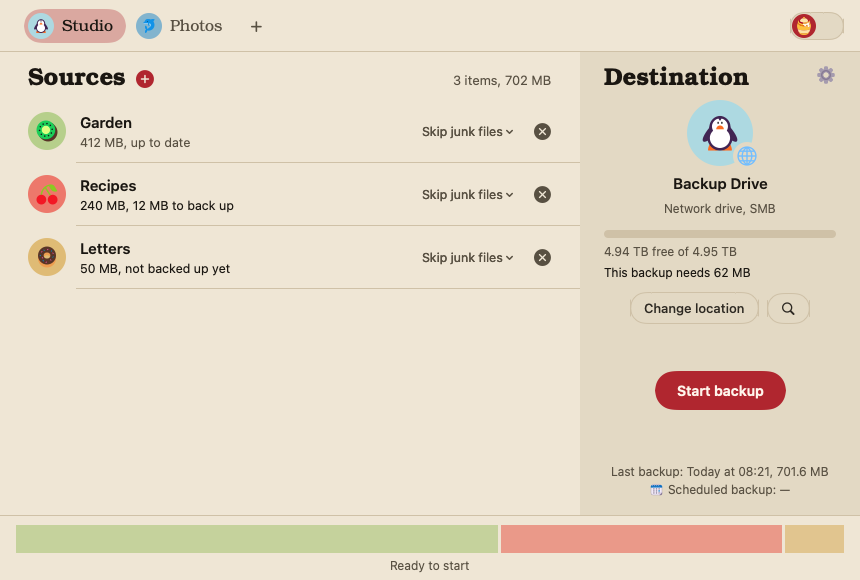
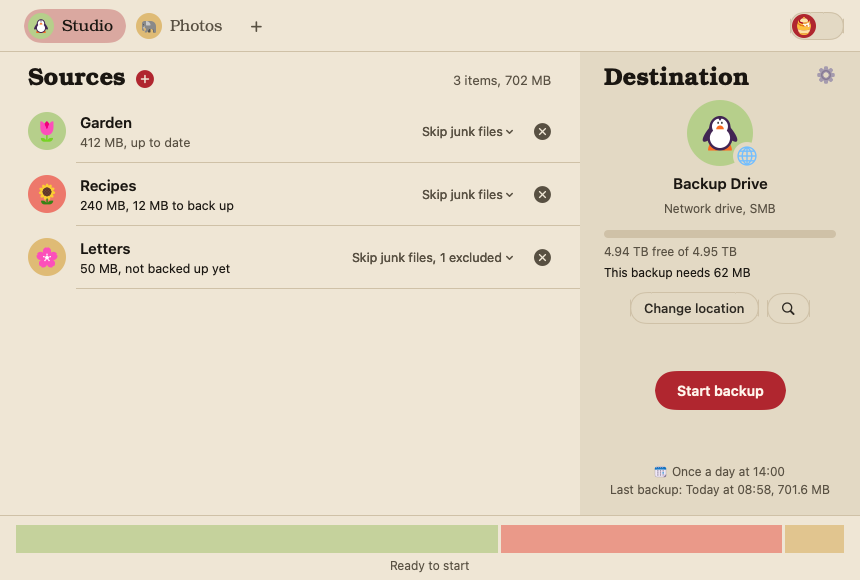
Archivist 0.0.5 — No more 'quit unexpectedly': scheduled backups now run while Archivist is open. Exclude a folder from a source. Steadier time left. Schedule shown on one line.

diff --git a/Archivist/Job.swift b/Archivist/Job.swift
@@ -340,7 +340,8 @@ final class Runner {
         stopping = false
         stopRequested = false
         progress = .init()
-        samples = []
+        fit = TimeFit()
+        lastStep = nil
         eta = nil
         etaAnchor = nil
         started = Date()
@@ -451,10 +452,14 @@ final class Runner {
     }
     @ObservationIgnored private var stopRequested = false
 
-    // Time left. Small files cost time per file, big files per byte, and the two lanes mix
-    // them; so both rates are measured over the last 30 s and the slower finish wins.
+    // Time left. Every file costs a fixed overhead (create, rename, a head move on a spinning
+    // disk) plus its bytes: seconds ≈ a·files + b·bytes. a and b are fitted over the whole run,
+    // each step weighted by how recent it is (half-life 5 min), so a patch of tiny or huge files
+    // only nudges the estimate. The old "last 30 s, slower rate wins" read 10 GB of mostly tiny
+    // files on a spinning disk as 40 hours.
     var eta: TimeInterval?
-    private var samples: [(Date, Int, Int64)] = []
+    @ObservationIgnored private var fit = TimeFit()
+    @ObservationIgnored private var lastStep: (date: Date, files: Int, bytes: Int64)?
     @ObservationIgnored private var lastLog = Date.distantPast
 
     /// The clock shown: counts down one second per second from the last estimate; a new
@@ -498,16 +503,13 @@ final class Runner {
         let now = Date()
         let o = overall
         let p = (filesDone: o.files, filesTotal: o.filesTotal, bytesDone: o.bytes, bytesTotal: o.bytesTotal)
-        samples.append((now, p.filesDone, p.bytesDone))
-        samples.removeAll { now.timeIntervalSince($0.0) > 30 }
-        guard let first = samples.first, now.timeIntervalSince(first.0) >= 5 else { return }
-        let dt = now.timeIntervalSince(first.0)
-        let fileRate = Double(p.filesDone - first.1) / dt
-        let byteRate = Double(p.bytesDone - first.2) / dt
-        let byFiles = fileRate > 0 ? Double(p.filesTotal - p.filesDone) / fileRate : .infinity
-        let byBytes = byteRate > 0 ? Double(p.bytesTotal - p.bytesDone) / byteRate : .infinity
-        let raw = max(byFiles.isFinite ? byFiles : 0, byBytes.isFinite ? byBytes : 0)
-        guard raw > 0 || p.filesDone == p.filesTotal else { return }
+        guard let last = lastStep else { lastStep = (now, p.filesDone, p.bytesDone); return }
+        let dt = now.timeIntervalSince(last.date)
+        guard dt >= 2 else { return }
+        fit.add(files: Double(p.filesDone - last.files), bytes: Double(p.bytesDone - last.bytes), seconds: dt)
+        lastStep = (now, p.filesDone, p.bytesDone)
+        guard now.timeIntervalSince(started) >= 8, let raw = fit.seconds(files: Double(p.filesTotal - p.filesDone),
+                                                                           bytes: Double(p.bytesTotal - p.bytesDone)) else { return }
         eta = eta.map { $0 * 0.8 + raw * 0.2 } ?? raw     // calm: no jumping minute to minute
         // The shown clock never ticks up: a shorter estimate eases in; a slightly longer one holds
         // the clock still; one over 25% longer jumps once (crawling up second by second felt broken).
@@ -529,5 +531,35 @@ final class Runner {
         let b = overall.bytes
         let dt = Date().timeIntervalSince(lastSample.0)
         if dt >= 0.5 { bytesPerSecond = bytesPerSecond == 0 ? Double(b - lastSample.1) / dt : bytesPerSecond * 0.7 + Double(b - lastSample.1) / dt * 0.3; lastSample = (Date(), b) }
+    }
+}
+
+/// seconds ≈ a·files + b·bytes, fitted by weighted least squares; older steps fade (half-life 5 min).
+struct TimeFit {
+    private var ff = 0.0, fb = 0.0, bb = 0.0, ft = 0.0, bt = 0.0
+    private static let halfLife = 300.0
+
+    mutating func add(files: Double, bytes: Double, seconds: Double) {
+        let keep = pow(0.5, seconds / Self.halfLife)
+        ff *= keep; fb *= keep; bb *= keep; ft *= keep; bt *= keep
+        let mb = bytes / 1e6   // MB keeps the sums on one scale
+        ff += files * files; fb += files * mb; bb += mb * mb
+        ft += files * seconds; bt += mb * seconds
+    }
+
+    /// nil until something has moved.
+    func seconds(files: Double, bytes: Double) -> TimeInterval? {
+        let mb = bytes / 1e6
+        let det = ff * bb - fb * fb
+        if ff > 0, bb > 0, det > 1e-6 * ff * bb {
+            let a = (ft * bb - bt * fb) / det, b = (bt * ff - ft * fb) / det
+            if a >= 0 && b >= 0 { return a * files + b * mb }
+        }
+        // Only one kind of file seen so far: small files cost per file, big files per byte. Telling
+        // them apart by the average size seen keeps a stretch of tiny files from pricing every
+        // remaining megabyte at a tiny file's speed.
+        guard ff > 0 || bb > 0 else { return nil }
+        let smallSoFar = fb / max(ff, 1e-9) < 1   // fb/ff: average MB per file, weighted
+        return smallSoFar && ff > 0 ? (ft / ff) * files : (bb > 0 ? (bt / bb) * mb : (ft / ff) * files)
     }
 }

diff --git a/Archivist/JobView.swift b/Archivist/JobView.swift
@@ -183,6 +183,24 @@ struct JobView: View {
     }
 
 
+    /// Pick folders inside a source to leave out of the copy (a Dropbox folder, a cloud drive's cache).
+    func exclude(in s: Source) {
+        let panel = NSOpenPanel()
+        panel.canChooseDirectories = true
+        panel.canChooseFiles = false
+        panel.allowsMultipleSelection = true
+        panel.directoryURL = URL(fileURLWithPath: s.readPath)
+        panel.prompt = "Exclude"
+        guard panel.runModal() == .OK else { return }
+        let root = URL(fileURLWithPath: s.readPath).resolvingSymlinksInPath().path
+        // Stored relative to the source; a folder outside it can't be excluded from it.
+        let rel = panel.urls.compactMap { u -> String? in
+            let p = u.resolvingSymlinksInPath().path
+            return p.hasPrefix(root + "/") ? String(p.dropFirst(root.count + 1)) : nil
+        }
+        update(s) { $0.leftOut = Array(Set($0.leftOut + rel)).sorted() }
+    }
+
     func update(_ s: Source, _ change: (inout Source) -> Void) {
         edit { j in if let i = j.sources.firstIndex(where: { $0.id == s.id }) { change(&j.sources[i]) } }
     }
@@ -264,11 +282,17 @@ struct SourceRow: View {
                 Button { view.update(s) { $0.skipJunk = true } } label: {
                     Text("Skip junk files") + Text(s.skipJunk ? "  ✓" : "")
                 }
-                Button { view.update(s) { $0.skipJunk = false; $0.leftOut = []; $0.patterns = [] } } label: {
+                Button { view.update(s) { $0.skipJunk = false } } label: {
                     Text("Copy everything") + Text(s.skipJunk ? "" : "  ✓")
                 }
+                Divider()
+                Button("Exclude a folder…") { view.exclude(in: s) }
+                ForEach(s.leftOut, id: \.self) { rel in
+                    Button("Include \((rel as NSString).lastPathComponent) again") { view.update(s) { $0.leftOut.removeAll { $0 == rel } } }
+                }
             } label: {
-                Text(s.skipJunk ? "Skip junk files" : "Copy everything").font(Typeface.text(12.5))
+                Text((s.skipJunk ? "Skip junk files" : "Copy everything")
+                     + (s.leftOut.isEmpty ? "" : ", \(s.leftOut.count) excluded")).font(Typeface.text(12.5))
             }
             .menuStyle(.borderlessButton).fixedSize()
             .tint(Palette.soft)
@@ -388,16 +412,16 @@ struct DestinationPane: View {
                 if !view.runner.running && !view.runner.problems.isEmpty {
                     ProblemsLink(list: view.runner.problems).frame(maxWidth: .infinity).padding(.top, 6)
                 }
-                Text("Last backup: " + (job.lastRun.map { lastWords($0, job.lastBytes) } ?? "—"))
-                    .font(Typeface.text(12)).foregroundStyle(Palette.soft).frame(maxWidth: .infinity).padding(.top, 8)
                 Button { NotificationCenter.default.post(name: .showSettings, object: nil) } label: {
                     HStack(spacing: 5) {
                         Emoji(name: "spiral_calendar", size: 13)
-                        Text("Scheduled backup: " + (job.schedule == .byHand ? "—" : job.schedule.words))
-                            .font(Typeface.text(12)).foregroundStyle(Palette.soft)
+                        Text(job.schedule == .byHand ? "Schedule: —" : job.schedule.words)
+                            .font(Typeface.text(12)).foregroundStyle(Palette.soft).lineLimit(1)
                     }
                 }
-                .buttonStyle(.plain).frame(maxWidth: .infinity).padding(.top, 3)
+                .buttonStyle(.plain).frame(maxWidth: .infinity).padding(.top, 8)
+                Text("Last backup: " + (job.lastRun.map { lastWords($0, job.lastBytes) } ?? "—"))
+                    .font(Typeface.text(12)).foregroundStyle(Palette.soft).frame(maxWidth: .infinity).padding(.top, 3)
             } else {
                 DropHint(icon: job.icon, text: "Drop the destination folder here", action: view.chooseDestination)
                     .frame(maxWidth: .infinity, maxHeight: .infinity)
@@ -907,12 +931,6 @@ struct ScheduleChooser: View {
                     Text("at").foregroundStyle(Palette.soft)
                     time(h, m) { nh, nm in .weekly(weekday: d, hour: nh, minute: nm) }
                 }.padding(.leading, 22)
-            }
-            if s != .byHand {
-                if let note = Scheduler.statusNote {
-                    Text(note).font(Typeface.text(11.5, .semibold)).foregroundStyle(Palette.warn).fixedSize(horizontal: false, vertical: true)
-                    Button("Open Login Items") { SMAppService.openSystemSettingsLoginItems() }
-                }
             }
         }
         .font(Typeface.text(13))

diff --git a/Archivist/Scheduler.swift b/Archivist/Scheduler.swift
@@ -11,39 +11,26 @@ enum Scheduler {
     static let plist = "com.houseofhelios.archivist.scheduler.plist"
     static var agent: SMAppService { SMAppService.agent(plistName: plist) }
 
-    /// Registered while any backup has a schedule; unregistered when none has. Only the window
-    /// does this: the helper itself never touches its own registration.
-    ///
-    /// macOS ties a registered agent to the signature of the build that registered it ("launch
-    /// constraint"). A different build (an update, a dev copy) is then killed at every start with
-    /// "Code Signature Invalid", which shows as "Archivist quit unexpectedly". So whenever this
-    /// build differs from the one that registered, the agent is registered again.
+    /// The launchd agent is retired: macOS kills an SMAppService agent of an app signed without
+    /// an Apple team ID at every start ("Launch Constraint Violation", even right after the same
+    /// build registered it), and each kill shows "Archivist quit unexpectedly". Any registration
+    /// an older build left is removed; schedules run while Archivist is open (`runDueInApp`).
     static func sync(_ jobs: [Job]) {
         guard !requested else { return }
-        let wanted = jobs.contains { $0.schedule != .byHand }
-        let build = (Bundle.main.object(forInfoDictionaryKey: "CFBundleVersion") as? String ?? "") + " " + Bundle.main.bundlePath
-        let key = "schedulerRegisteredBy"
-        do {
-            if agent.status != .notRegistered && (!wanted || UserDefaults.standard.string(forKey: key) != build) {
-                try agent.unregister()
-                UserDefaults.standard.removeObject(forKey: key)
-            }
-            if wanted && agent.status != .enabled {
-                try agent.register()
-                UserDefaults.standard.set(build, forKey: key)
-            }
-        } catch {
-            DevLog.write("scheduler: \(error)")
-        }
+        if agent.status != .notRegistered { try? agent.unregister() }
     }
 
-    /// A plain sentence when macOS is holding the helper back, else nil.
-    static var statusNote: String? {
-        switch agent.status {
-        case .enabled: return nil
-        case .requiresApproval: return "macOS needs your OK: turn on Archivist in System Settings → General → Login Items."
-        case .notFound: return "The scheduler is missing from this copy of Archivist; reinstall it."
-        default: return "Scheduled backups aren't switched on yet."
+    /// The window's clock: every minute, start each backup whose time has come.
+    @MainActor static func runDueInApp(_ store: JobStore) {
+        let now = Date()
+        for job in store.jobs {
+            let present = job.destination.map { FileManager.default.fileExists(atPath: $0) } ?? false
+            let since = present ? (job.destinationSince ?? now) : nil
+            if since != job.destinationSince, let i = store.jobs.firstIndex(where: { $0.id == job.id }) { store.jobs[i].destinationSince = since }
+            guard job.ready, !store.runner(for: job.id).running,
+                  job.schedule.isDue(now: now, lastRun: job.lastRun, destinationSince: since) else { continue }
+            DevLog.write("schedule: starting \(job.title) (\(job.schedule.words))")
+            store.start(job.id)
         }
     }
 

diff --git a/Archivist/ArchivistApp.swift b/Archivist/ArchivistApp.swift
@@ -47,11 +47,17 @@ struct RootView: View {
         .background(Palette.ground)
         .ignoresSafeArea(.container, edges: .top)   // the strip makes room for the traffic lights itself; a changing inset jumped the layout
         .tint(Palette.accent)
+        .task {   // scheduled backups, while Archivist is open
+            while !Task.isCancelled {
+                Scheduler.runDueInApp(store)
+                try? await Task.sleep(nanoseconds: 60_000_000_000)
+            }
+        }
         .onAppear {
             if store.jobs.isEmpty { store.add() }
             selection = selection ?? store.jobs.first?.id
             DevLog.write("app open: \(store.jobs.count) backups")
-            Scheduler.sync(store.jobs)   // a new build re-registers the helper (or removes a stale one)
+            Scheduler.sync(store.jobs)   // removes the retired background helper if an older build left one
             #if DEBUG
             DevControl.start(store) { selection = $0 }
             #endif

diff --git a/Archivist/Snapshot.swift b/Archivist/Snapshot.swift
@@ -24,6 +24,8 @@ enum Snapshot {
         studio.sources[1].patterns = ["*.tmp"]
         for i in studio.sources.indices { studio.sources[i].color = Nippon.colors[i].hex }   // as add() counts through them
         studio.destination = "/Volumes/Backup Drive"
+        studio.schedule = .daily(hour: 14, minute: 0)
+        studio.sources[2].leftOut = ["Dropbox"]
         studio.lastResult = "45 copied (701.6 MB), 0 already there"
         studio.lastRun = Date().addingTimeInterval(-3600 * 3)
         studio.lastBytes = 701_600_000

diff --git a/docs/site/04-settings.md b/docs/site/04-settings.md
@@ -16,9 +16,9 @@ The name is the backup's title in the tabs along the top. The picture and colour
 - **Once a day**, at the time you choose.
 - **Once a week**, on the day and at the time you choose.
 
-Scheduled backups run in the background without a window, through a small helper that macOS starts for you. The first time you choose a schedule, macOS asks you to allow Archivist in **System Settings → General → Login Items & Extensions**. If a scheduled backup skips files, you get a notification.
+Scheduled backups run while Archivist is open. Closing the window keeps Archivist running; quitting it stops the schedule until you open it again. A backup that was due while Archivist was closed runs when you open it.
 
-A scheduled backup that finds the drive unplugged does nothing and tries again at the next slot. A Mac that was asleep at the scheduled time runs the backup when it wakes.
+A scheduled backup that finds the drive unplugged does nothing and tries again at the next slot. A Mac that was asleep at the scheduled time runs the backup when it wakes, if Archivist is open.
 
 ## Earlier versions
 
